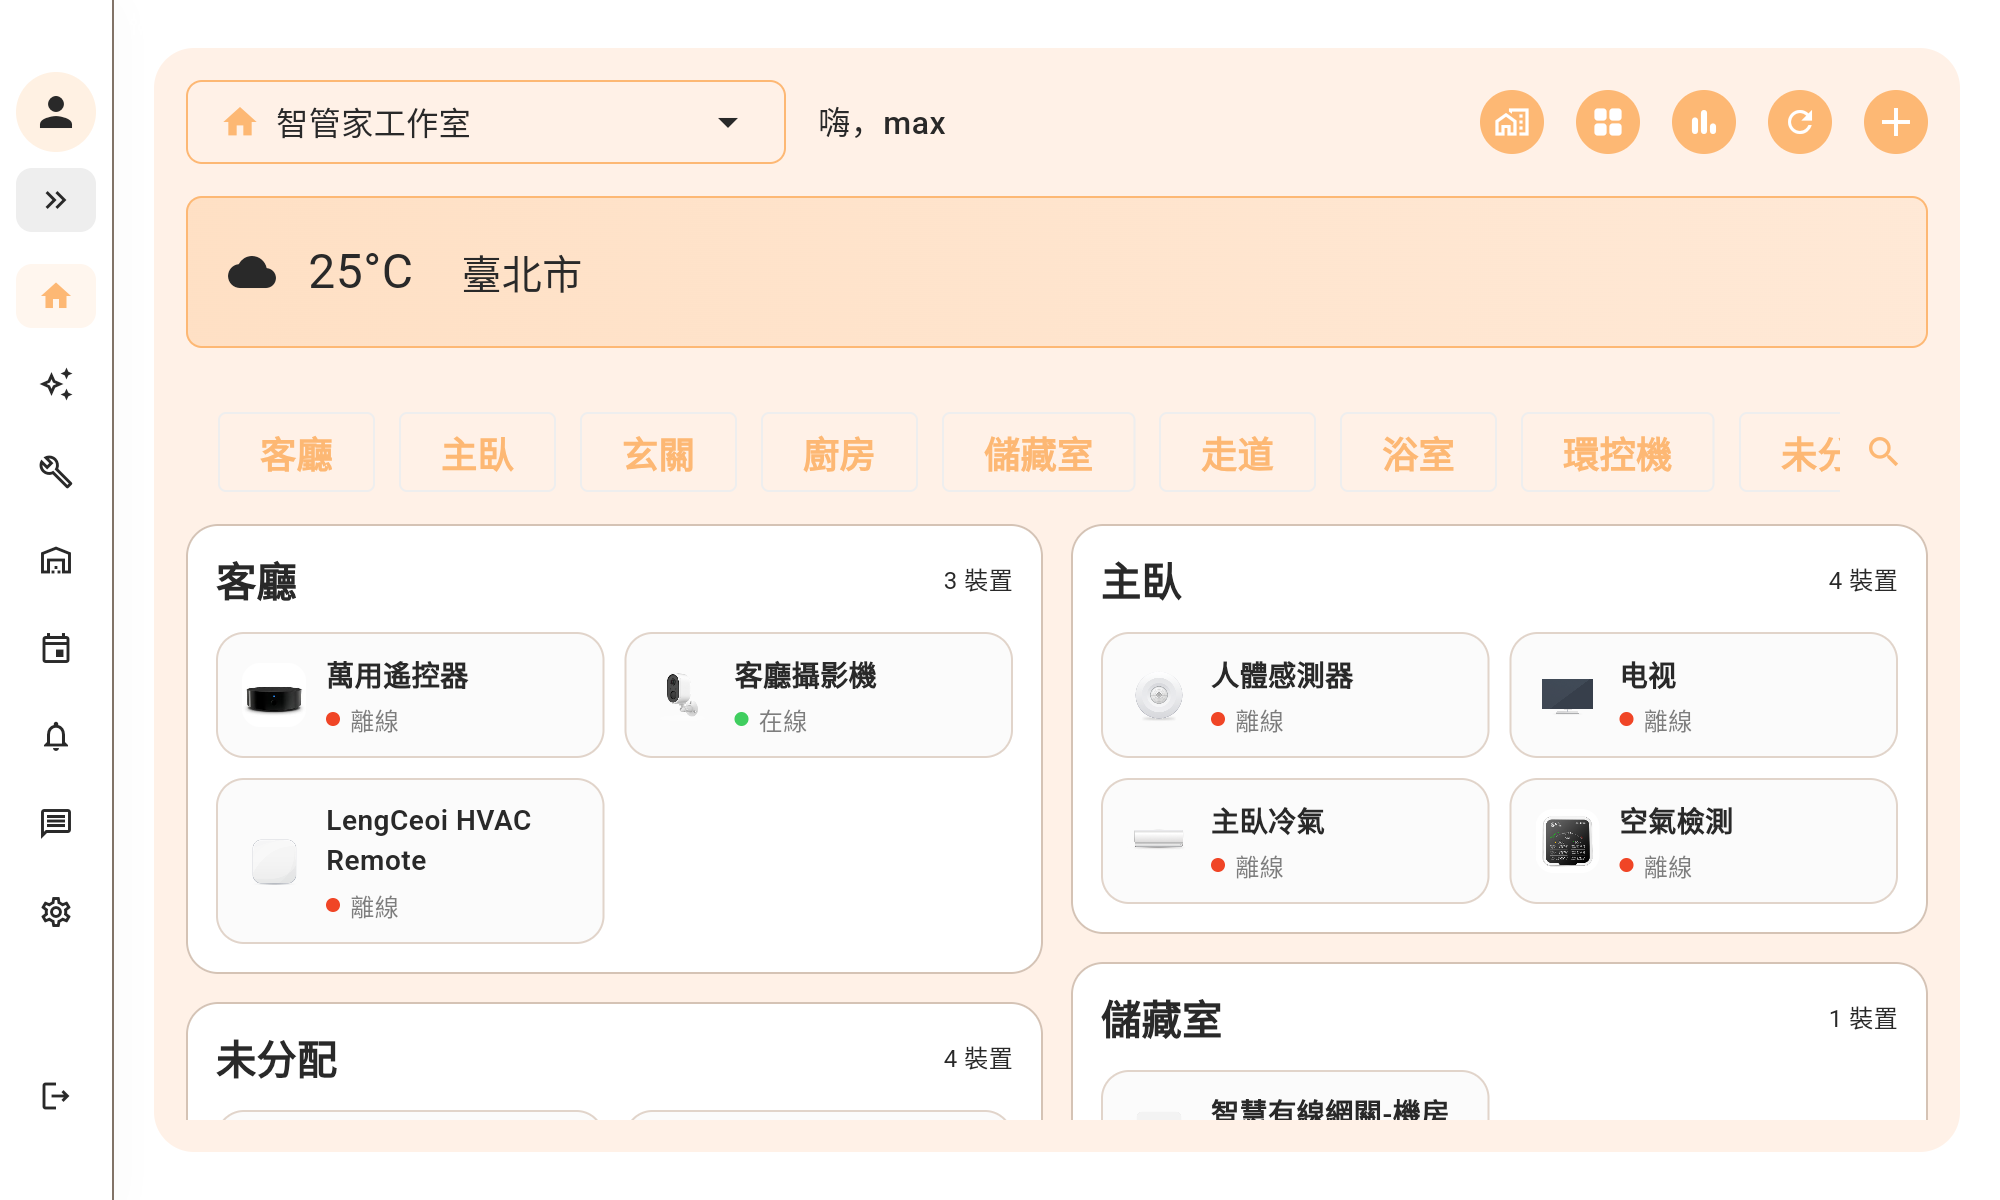
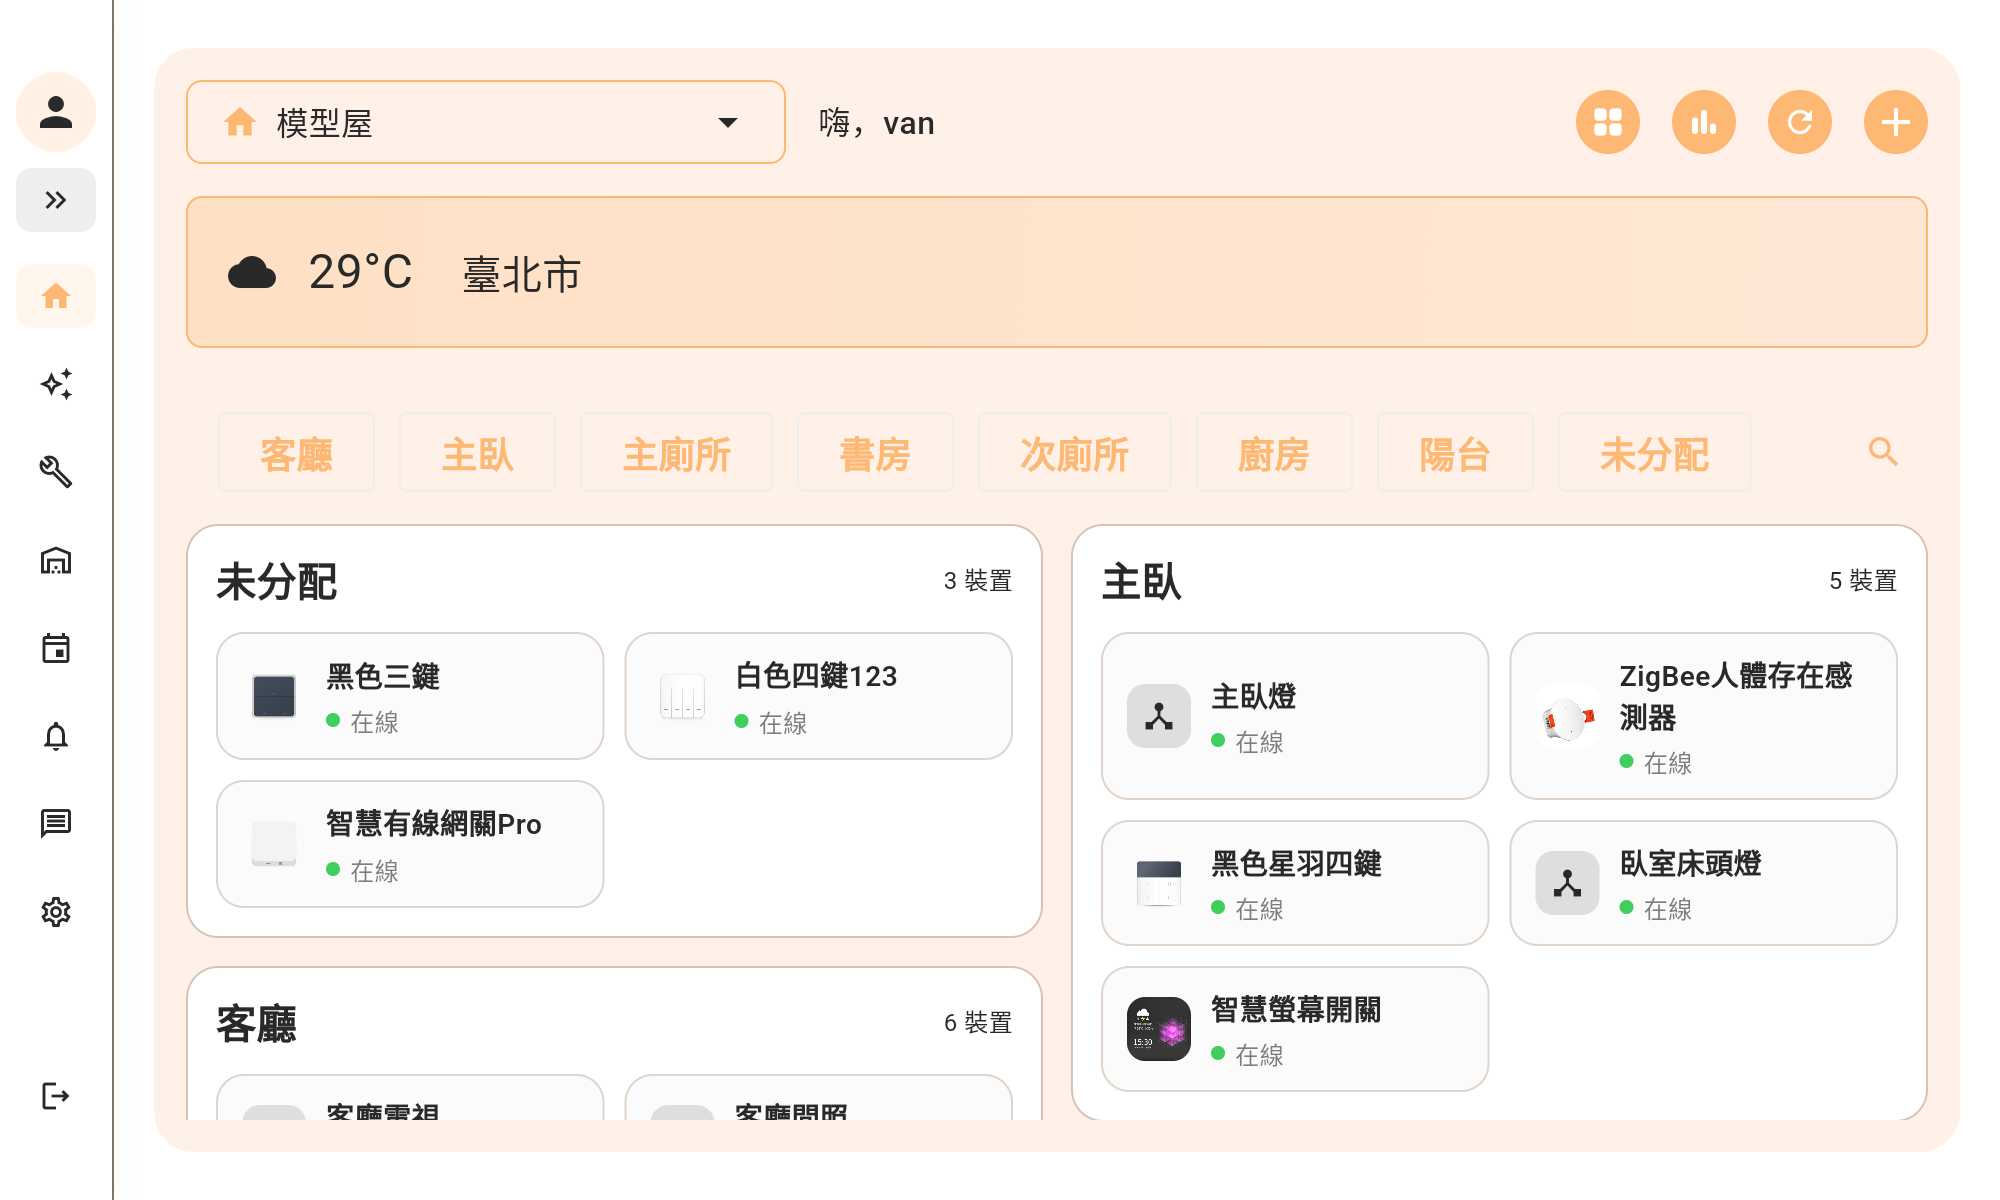
content: 全站換用 3.2.2 實機截圖——首頁／產品頁裝置全部「在線」，四個 how-to 模組補齊截圖
Sean 2026-09-22：「有更新的 enGo 軟體畫面，尤其那些顯示離線的要換掉」。來源：
文件-當前版/assets/manual/（3.2.2+489，模型屋示範住家＋智管家實驗社區帳號，09-22 擷取）。
全部只裁切（去掉 Android 狀態列 52px），不修圖。

行銷用截圖（public/images/screens）：
- 01-home-tablet：模型屋首頁，所有裝置在線（原為智管家工作室、多數離線）
- 03-floorplan-tablet、05-warehouse-tablet：3.2.2 平面圖／倉儲總覽
- 09-announcement-tablet（新）：社區除蟲通知詳情，取代 08 那條 1080×620 公告窄幅
  （首頁 HMS×BMS 平板橫框、產品頁社區圖說皆改用）；08 刪除
- 07-home-phone：裁到房間標題列以上（1080×720），不再露出離線裝置卡
- 三張 -device 合成圖：沿用原方法（981d25d3），把新截圖 cover-fit 貼回同一片
  1755×1054 螢幕面板，機身像素不動

操作指南（howto.json）：community／service／reservation／warehouse 四模組補上對應
步驟截圖（訊息詳情、提交工單、工單列表、可預約項目、預約詳情、預約紀錄、倉儲總覽、
異動位置），imagesPending 全部解除；meta.note 改寫；knowledge_base.json 四條 how-to
答案移除「截圖尚未重拍」註記。/knowledge-base.md 隨 build 重產。

驗證：vitest 145/145、build 通過；合成圖與手機裁切逐張檢視。

diff --git a/src/views/index.vue b/src/views/index.vue
@@ -25,7 +25,7 @@
                Shown at its true aspect in a frame that emerges from the section edge; a
                tall frame with cover-fit turned it into "neither iPhone nor Android". -->
           <div class="hm-phone hm-phone-hero">
-            <img src="/images/screens/07-home-phone.png" :alt="T.altPhone" width="1080" height="1130" loading="eager" />
+            <img src="/images/screens/07-home-phone.png" :alt="T.altPhone" width="1080" height="720" loading="eager" />
           </div>
         </figure>
       </div>
@@ -53,7 +53,7 @@
           </div>
           <div class="hm-if-item">
             <div class="hm-phone-well">
-              <div class="hm-phone"><img src="/images/screens/07-home-phone.png" :alt="T.altPhone" width="1080" height="1130" loading="lazy" /></div>
+              <div class="hm-phone"><img src="/images/screens/07-home-phone.png" :alt="T.altPhone" width="1080" height="720" loading="lazy" /></div>
             </div>
             <div class="hm-if-cap"><strong>{{ T.ifAndroid }}</strong><span>{{ T.ifAndroidCap }}</span><a class="hm-store hm-store-inline" href="https://play.google.com/store/apps/details?id=tw.smtengo.engohome.android" target="_blank" rel="noopener" data-track="home:google-play"><img src="/images/badges/google-play-en.png" alt="Get it on Google Play" height="40" loading="lazy" /></a></div>
           </div>
@@ -106,7 +106,7 @@
           </ul>
         </div>
         <div class="hm-bms-media" data-reveal-group>
-          <div class="hm-plate hm-plate-land"><img src="/images/screens/08-announcements-phone.png" :alt="T.altAnnounce" width="1080" height="620" loading="lazy" /></div>
+          <div class="hm-plate hm-plate-land"><img src="/images/screens/09-announcement-tablet.png" :alt="T.altAnnounce" width="2000" height="1148" loading="lazy" /></div>
           <router-link :to="'/cases/' + bmsCase.id" class="hm-photo hm-photo-land" v-if="bmsCase">
             <img :src="bmsCase.image" :alt="pick(bmsCase.title)" loading="lazy" />
             <div class="hm-photo-cap"><strong>{{ pick(bmsCase.title) }}</strong><span>{{ pick(bmsCase.category) }}</span></div>
@@ -297,7 +297,7 @@ $navy-2: $grey-blue2;
   img { display: block; width: 100%; height: auto; border-radius: 14px; }
 }
 .hm-plate-tall img { aspect-ratio: 4 / 5; object-fit: cover; object-position: top; }
-.hm-plate-land img { aspect-ratio: 1080 / 620; object-fit: cover; object-position: top; }
+.hm-plate-land img { aspect-ratio: 2000 / 1148; object-fit: cover; object-position: top; }
 
 // Phone frame open at the bottom: the capture is the top of the screen, so the frame
 // is cut by its container instead of the image being zoomed to fill a tall frame.

diff --git a/src/views/product.vue b/src/views/product.vue
@@ -80,7 +80,7 @@
               <!-- §3.2 shot #8, cropped to the two real notices (違規勸導／社區除蟲通知);
                    the same screen also carried a／b／123／test entries. -->
               <figure class="intro-figure">
-                <img src="/images/screens/08-announcements-phone.png" :alt="$t('product.brand_intro.communityFigure')" loading="lazy" />
+                <img src="/images/screens/09-announcement-tablet.png" :alt="$t('product.brand_intro.communityFigure')" loading="lazy" />
                 <figcaption>{{ $t('product.brand_intro.communityFigure') }}</figcaption>
               </figure>
               <p class="fz-20 lh-34 fz-tab-17 lh-tab-28 fz-mob-15 lh-mob-25">
